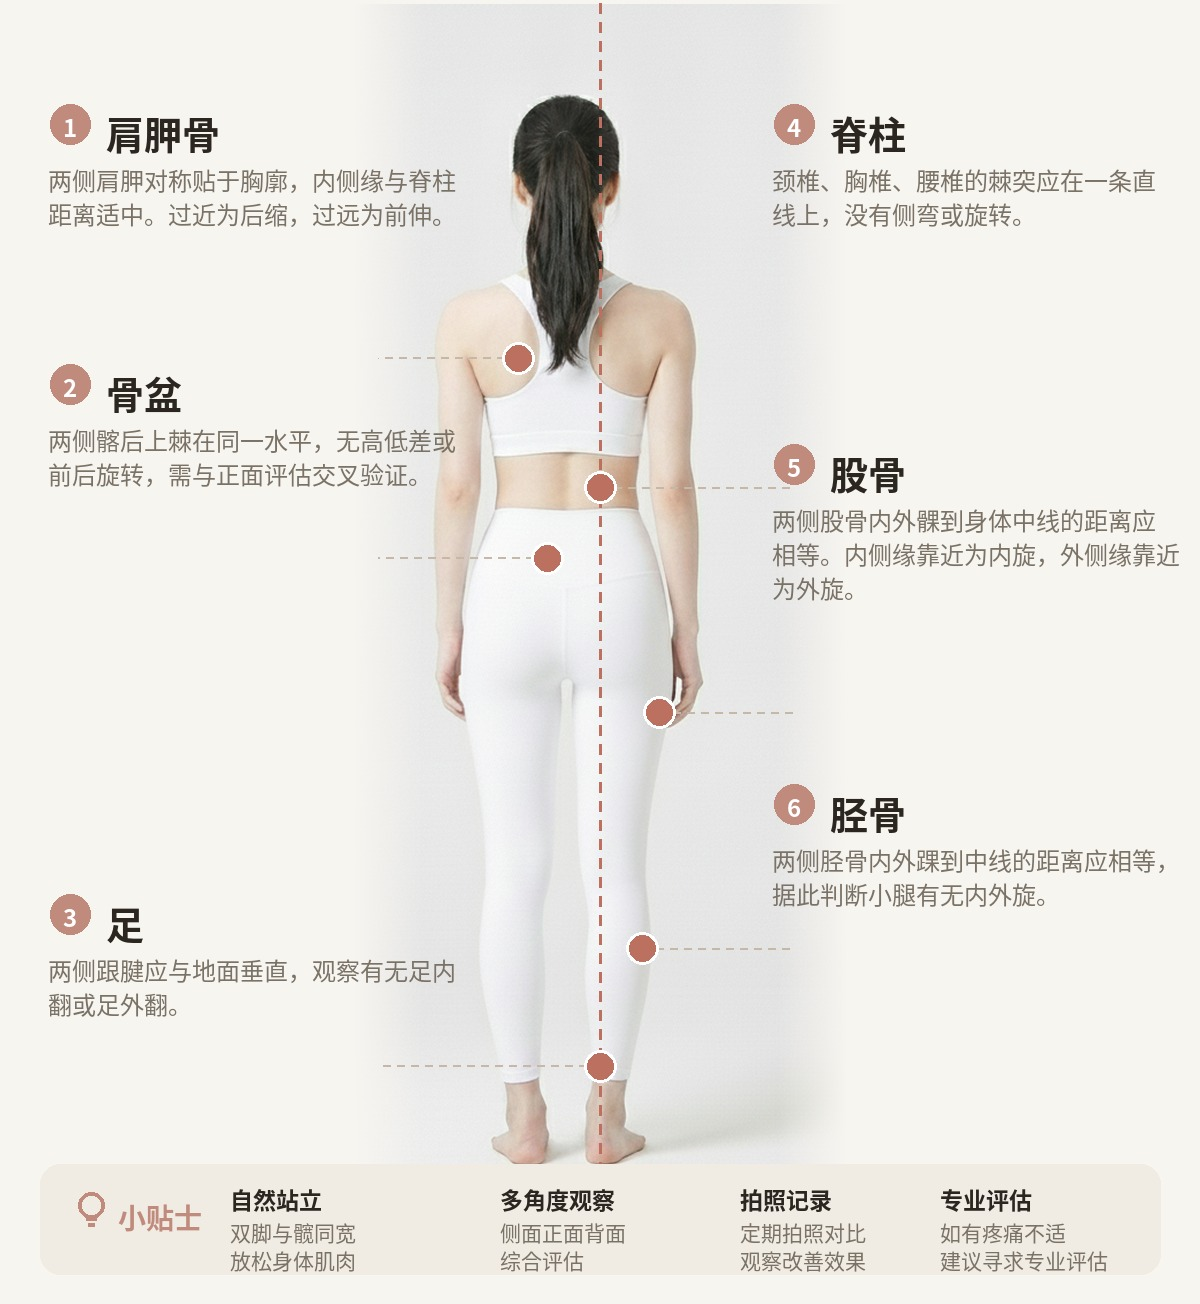
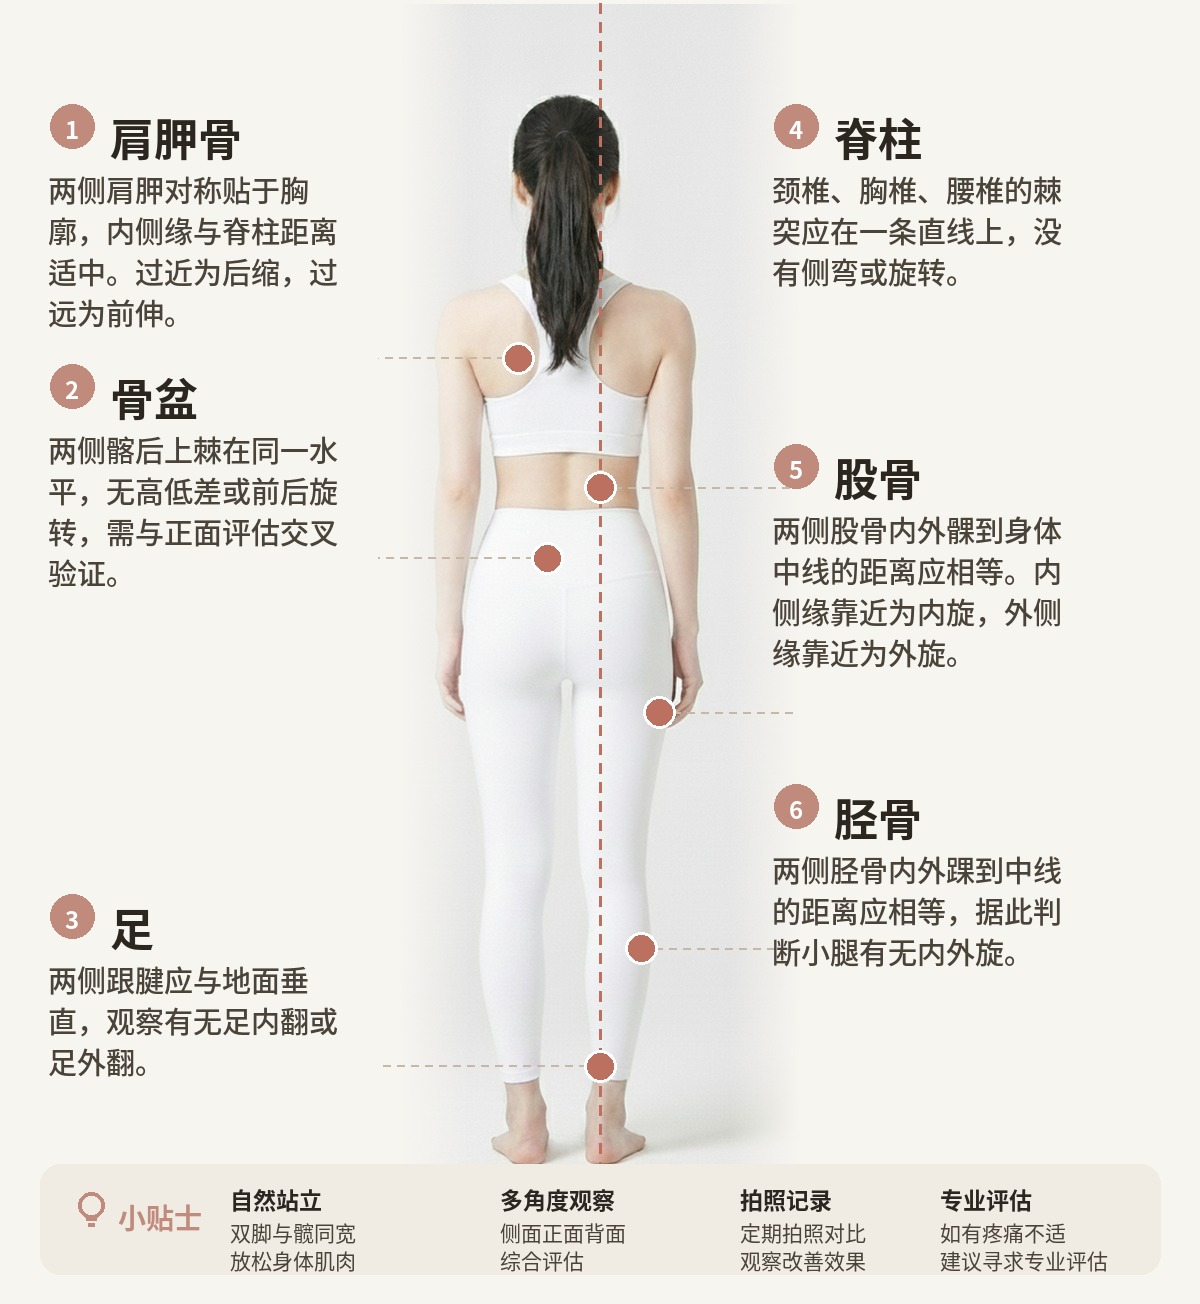
Enlarge and darken poster text for legibility (figure size unchanged)

diff --git a/backend/tools/make_pose_posters.py b/backend/tools/make_pose_posters.py
@@ -10,7 +10,7 @@ FM = "/usr/share/fonts/opentype/noto/NotoSansCJK-Medium.ttc"
 # 统一暖色极简风（与 App 主题一致），去蓝
 BLUE = (192, 138, 125)   # 主强调色：暖陶土（沿用变量名）
 DARK = (43, 39, 32)      # 标题深褐
-GREY = (122, 114, 102)   # 正文暖灰
+GREY = (74, 67, 58)      # 正文深暖灰（提高对比、更清晰）
 RED  = (188, 112, 96)    # 标志点：陶土红
 BG   = (247, 245, 240)   # 背景暖白
 CARD = (240, 236, 228)   # 卡片暖灰底
@@ -123,11 +123,11 @@ def build(view, photo_path, out_path, *, crop, dots, left_cards, right_cards,
         # number + head
         hy=head_y[ (side,key) ]
         if num:
-            numcircle(d,(tx+22,hy+20),num)
-            d.text((tx+58,hy), head, font=font(FB,38), fill=DARK)
+            numcircle(d,(tx+24,hy+22),num,r=22)
+            d.text((tx+62,hy), head, font=font(FB,44), fill=DARK)
         else:
-            d.text((tx,hy), head, font=font(FB,38), fill=DARK)
-        textlines(d,(tx,hy+58), body, font(FR,24), GREY, 34)
+            d.text((tx,hy), head, font=font(FB,44), fill=DARK)
+        textlines(d,(tx,hy+64), body, font(FM,29), GREY, 41)
 
     for c in left_cards: card("L",*c)
     for c in right_cards: card("R",*c)
@@ -168,14 +168,14 @@ if __name__ == "__main__":
     # ===== 正面 =====
     head_y.clear()
     head_y.update({
-        ("L","shoulder"):300, ("L","ribs"):510, ("L","knee"):880, ("L","foot"):1100,
+        ("L","shoulder"):300, ("L","ribs"):500, ("L","knee"):860, ("L","foot"):1110,
         ("R","head"):300, ("R","pelvis"):700, ("R","leg"):1000,
     })
     build(
         "front",
         os.path.join(base,"photo-front.jpg"),
         os.path.join(base,"pose-front.jpg"),
-        crop=(0.29,0.0,0.71,1.0),
+        crop=(0.33,0.0,0.66,1.0),
         center_x=0.490,
         dots={
             "head":(0.490,0.115), "shoulder":(0.405,0.255), "ribs":(0.490,0.37),
@@ -183,15 +183,15 @@ if __name__ == "__main__":
             "foot":(0.490,0.875),
         },
         left_cards=[
-            (1,"shoulder","肩",["锁骨呈柔和的小倒「八」字，两侧肩","峰等高；据此观察有无高低肩、圆肩。"]),
-            (2,"ribs","肋骨架",["两侧肋骨下角在同一水平线，肋廓与","骨盆处于同一冠状面、上下对齐。高低","不平多与脊柱侧弯有关，前后偏移则是","胸廓旋转或平移。"]),
-            (3,"knee","膝",["大腿中点、髌骨中点、踝中点应三点一","线。髌骨偏内为膝内扣，偏外为膝外翻。"]),
-            (4,"foot","足",["双脚并拢、脚尖朝前，大脚趾向外偏移","即为拇外翻。"]),
+            (1,"shoulder","肩",["锁骨呈柔和的小倒「八」","字，两侧肩峰等高；据此","观察有无高低肩、圆肩。"]),
+            (2,"ribs","肋骨架",["两侧肋骨下角在同一水","平线，肋廓与骨盆处于同","一冠状面、上下对齐。高","低不平多与脊柱侧弯有","关，前后偏移是胸廓旋","转或平移。"]),
+            (3,"knee","膝",["大腿中点、髌骨中点、踝","中点应三点一线。髌骨偏","内为膝内扣，偏外为膝外","翻。"]),
+            (4,"foot","足",["双脚并拢、脚尖朝前，大","脚趾向外偏移为拇外翻。"]),
         ],
         right_cards=[
-            (None,"head","头",["眉心、下巴尖、胸骨柄在一条直线上，","双眼连线与地面平行，两侧脸颊在同一","平面，无歪头或颞下颌关节紊乱。"]),
-            (None,"pelvis","骨盆",["两侧髂前上棘在同一平面，连线与地面","平行。一前一后是骨盆旋转，一高一低","则是高低骨盆。"]),
-            (None,"leg","腿",["双腿并拢，膝盖先碰到但踝间留缝为 X","型腿；踝先碰到但膝间留缝为 O 型腿。"]),
+            (None,"head","头",["眉心、下巴尖、胸骨柄在","一条直线上，双眼连线与","地面平行，两侧脸颊在同","一平面，无歪头。"]),
+            (None,"pelvis","骨盆",["两侧髂前上棘在同一平","面，连线与地面平行。一","前一后是骨盆旋转，一高","一低是高低骨盆。"]),
+            (None,"leg","腿",["双腿并拢，膝先碰到但踝","间留缝为 X 型腿；踝先","碰到但膝间留缝为 O 型","腿。"]),
         ],
         title=("正面体态评估","科学评估体态 · 精准改善问题"),
         eval_pts=["自然站立，放松身体","观察各标志点位置"],
@@ -201,14 +201,14 @@ if __name__ == "__main__":
     # ===== 侧面 =====
     head_y.clear()
     head_y.update({
-        ("L","ear"):300, ("L","thoracic"):500, ("L","pelvis"):700, ("L","knee"):900,
-        ("R","neck"):300, ("R","lumbar"):510, ("R","hipjoint"):730, ("R","ankle"):960,
+        ("L","ear"):290, ("L","thoracic"):540, ("L","pelvis"):790, ("L","knee"):1020,
+        ("R","neck"):290, ("R","lumbar"):540, ("R","hipjoint"):790, ("R","ankle"):1030,
     })
     build(
         "side",
         os.path.join(base,"photo-side.jpg"),
         os.path.join(base,"pose-side.jpg"),
-        crop=(0.27,0.0,0.63,1.0),
+        crop=(0.30,0.0,0.62,1.0),
         center_line=False,
         align_pts=[(0.455,0.135),(0.445,0.30),(0.465,0.50),(0.455,0.72),(0.45,0.93)],
         dots={
@@ -217,16 +217,16 @@ if __name__ == "__main__":
             "knee":(0.455,0.72), "ankle":(0.45,0.93),
         },
         left_cards=[
-            (None,"ear","头",["外耳孔与肩峰在同一垂直线即为标准","中立位。耳跑到肩峰前方就是头前引。"]),
-            (None,"thoracic","胸椎",["从侧面看应有自然后凸支撑上半身。","曲度消失为胸椎过直，过大为驼背。"]),
-            (None,"pelvis","骨盆",["观察髂前上棘与髂后上棘的相对位置；","髂后高出约 5° 以上为前倾，平行或","更低则为后倾。"]),
-            (None,"knee","膝",["股骨大转子与膝关节中心对齐。大转","子在膝前为膝过伸，在膝后为膝屈曲。"]),
+            (None,"ear","头",["外耳孔与肩峰在同一垂","直线即为标准中立位。","耳跑到肩峰前方就是头","前引。"]),
+            (None,"thoracic","胸椎",["从侧面看应有自然后凸","支撑上半身。曲度消失","为胸椎过直，过大为驼","背。"]),
+            (None,"pelvis","骨盆",["观察髂前上棘与髂后上","棘的相对位置；髂后高","出约 5° 以上为前倾，","平行或更低为后倾。"]),
+            (None,"knee","膝",["股骨大转子与膝关节中","心对齐。大转子在膝前","为膝过伸，在膝后为膝","屈曲。"]),
         ],
         right_cards=[
-            (None,"neck","颈椎",["正常颈椎有自然前凸，额头不前探。曲","度变直甚至反弓会导致颈僵、酸痛。"]),
-            (None,"lumbar","腰椎",["正常有自然前凹，深度约可平放一掌。","几乎无凹为腰平，弧度过大为腰椎反弓。"]),
-            (None,"hipjoint","髋关节",["髂前上棘与髂后上棘连线中点应与股","骨大转子在同一垂直线。靠前为髋屈，","靠后为髋伸。"]),
-            (None,"ankle","踝关节",["小腿胫骨与地面应接近 90°。小于","90° 为背屈，大于 90° 为跖屈。"]),
+            (None,"neck","颈椎",["正常颈椎有自然前凸，","额头不前探。曲度变直","甚至反弓会导致颈僵、","酸痛。"]),
+            (None,"lumbar","腰椎",["正常有自然前凹，深度","约可平放一掌。几乎无","凹为腰平，弧度过大为","腰椎反弓。"]),
+            (None,"hipjoint","髋关节",["髂前上棘与髂后上棘连","线中点应与股骨大转子","在同一垂直线。靠前为","髋屈，靠后为髋伸。"]),
+            (None,"ankle","踝关节",["小腿胫骨与地面应接近","90°。小于 90° 为背","屈，大于 90° 为跖屈。"]),
         ],
         title=("侧面体态评估","科学评估体态 · 精准改善问题"),
         eval_pts=["自然站立，放松身体","从侧面观察各标志点位置"],
@@ -243,20 +243,20 @@ if __name__ == "__main__":
         "back",
         os.path.join(base,"photo-back.jpg"),
         os.path.join(base,"pose-back.jpg"),
-        crop=(0.29,0.0,0.71,1.0),
+        crop=(0.33,0.0,0.67,1.0),
         dots={
             "scapula":(0.43,0.30), "spine":(0.50,0.41), "pelvis":(0.455,0.47),
             "femur":(0.55,0.60), "tibia":(0.535,0.80), "foot":(0.50,0.90),
         },
         left_cards=[
-            (1,"scapula","肩胛骨",["两侧肩胛对称贴于胸廓，内侧缘与脊柱","距离适中。过近为后缩，过远为前伸。"]),
-            (2,"pelvis","骨盆",["两侧髂后上棘在同一水平，无高低差或","前后旋转，需与正面评估交叉验证。"]),
-            (3,"foot","足",["两侧跟腱应与地面垂直，观察有无足内","翻或足外翻。"]),
+            (1,"scapula","肩胛骨",["两侧肩胛对称贴于胸","廓，内侧缘与脊柱距离","适中。过近为后缩，过","远为前伸。"]),
+            (2,"pelvis","骨盆",["两侧髂后上棘在同一水","平，无高低差或前后旋","转，需与正面评估交叉","验证。"]),
+            (3,"foot","足",["两侧跟腱应与地面垂","直，观察有无足内翻或","足外翻。"]),
         ],
         right_cards=[
-            (4,"spine","脊柱",["颈椎、胸椎、腰椎的棘突应在一条直","线上，没有侧弯或旋转。"]),
-            (5,"femur","股骨",["两侧股骨内外髁到身体中线的距离应","相等。内侧缘靠近为内旋，外侧缘靠近","为外旋。"]),
-            (6,"tibia","胫骨",["两侧胫骨内外踝到中线的距离应相等，","据此判断小腿有无内外旋。"]),
+            (4,"spine","脊柱",["颈椎、胸椎、腰椎的棘","突应在一条直线上，没","有侧弯或旋转。"]),
+            (5,"femur","股骨",["两侧股骨内外髁到身体","中线的距离应相等。内","侧缘靠近为内旋，外侧","缘靠近为外旋。"]),
+            (6,"tibia","胫骨",["两侧胫骨内外踝到中线","的距离应相等，据此判","断小腿有无内外旋。"]),
         ],
         title=("背面体态评估","科学评估体态 · 精准改善问题"),
         eval_pts=["自然站立，放松身体","观察各标志点位置"],
